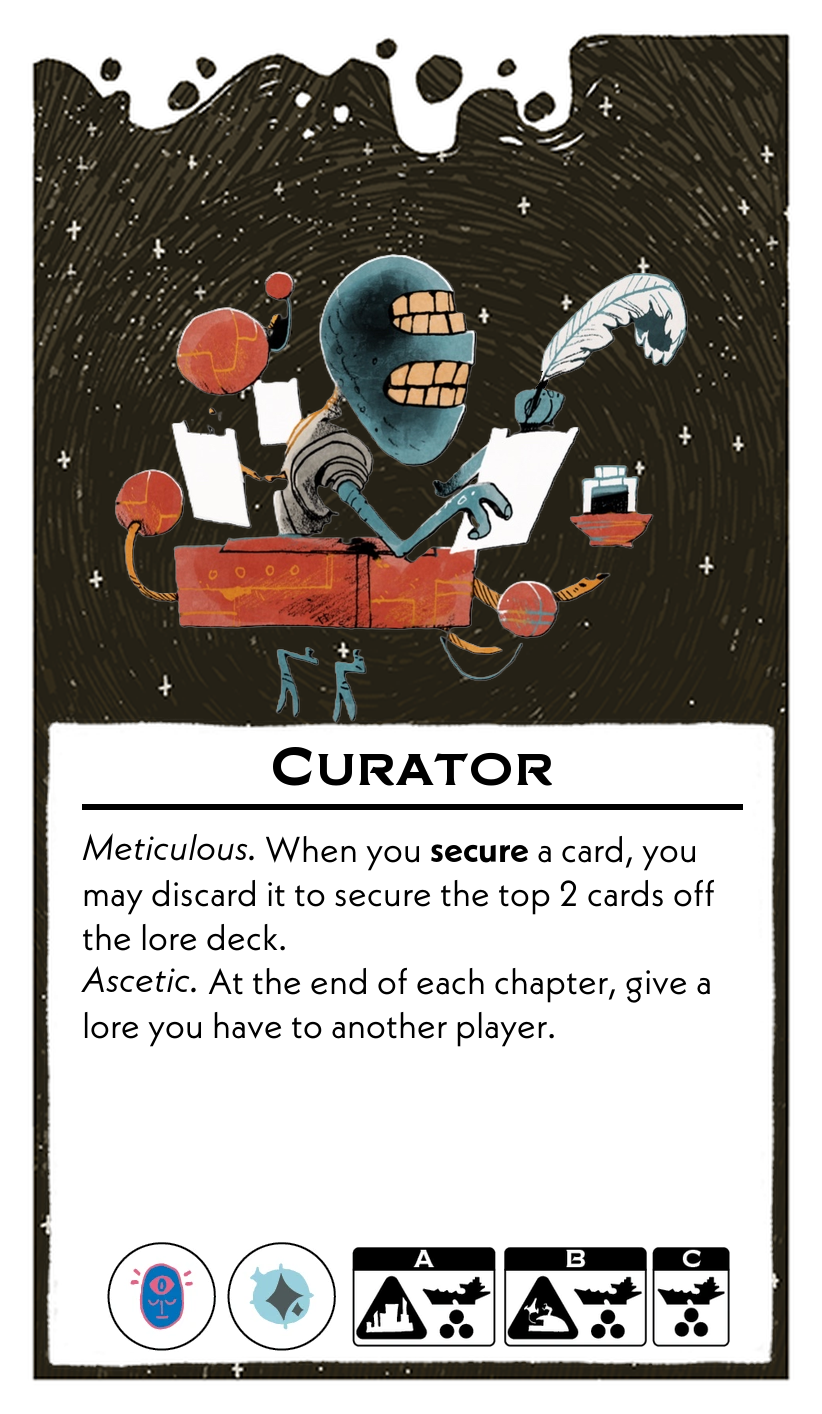
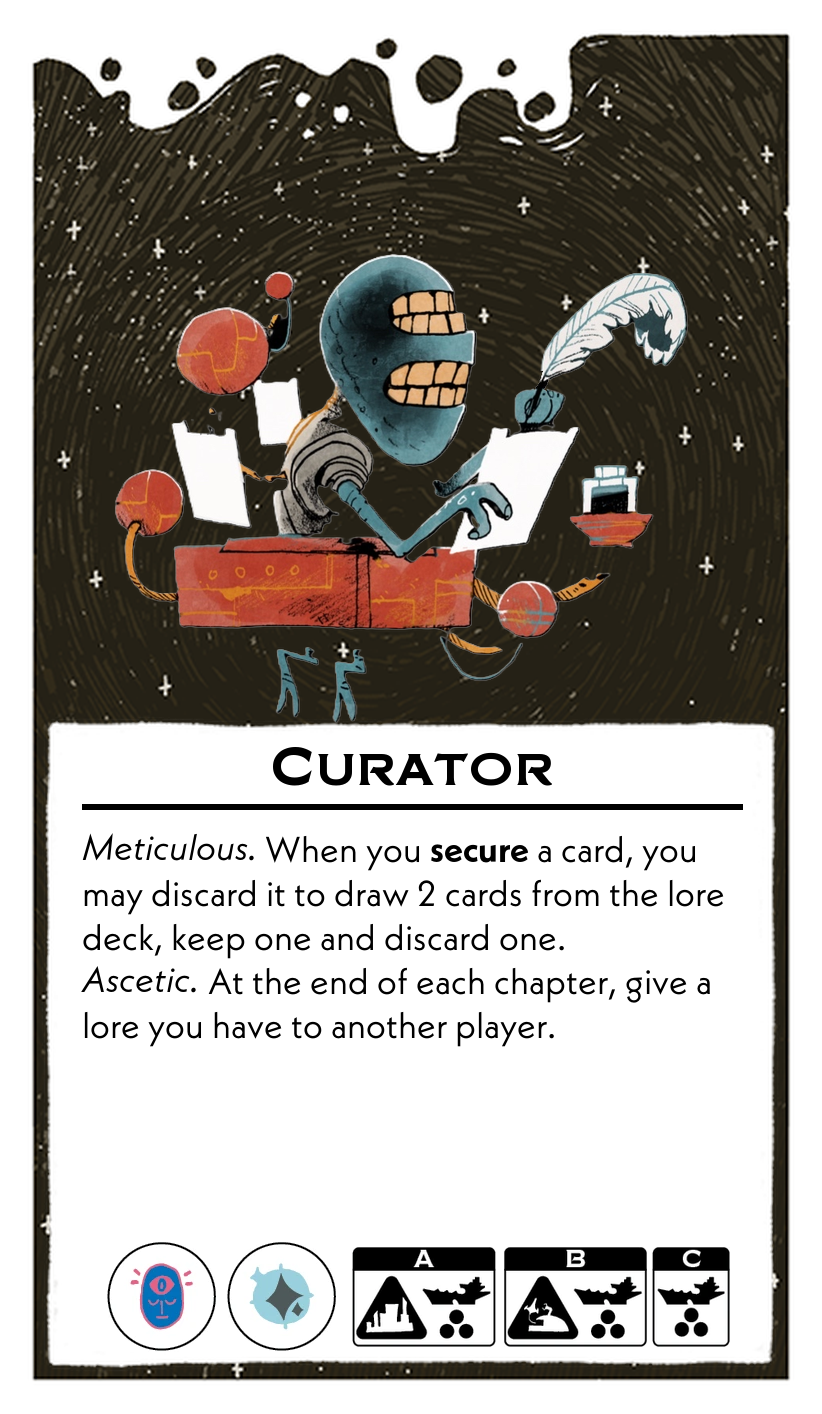
curator

Changed region(s): [[0.0912, 0.6223, 0.882, 0.6846]]

diff --git a/scripts/leadersFormatted.py b/scripts/leadersFormatted.py
@@ -680,7 +680,7 @@ leaders = [
     {
         "name": "Curator",
         "abilities": (
-            "*Meticulous.* When you **secure** a card, you may discard it to secure the top 2 cards off the lore deck.\n"
+            "*Meticulous.* When you **secure** a card, you may discard it to draw 2 cards from the lore deck, keep one and discard one.\n"
             "*Ascetic.* At the end of each chapter, give a lore you have to another player."
         ),
         "resources": ["Psionic", "Relic"],
